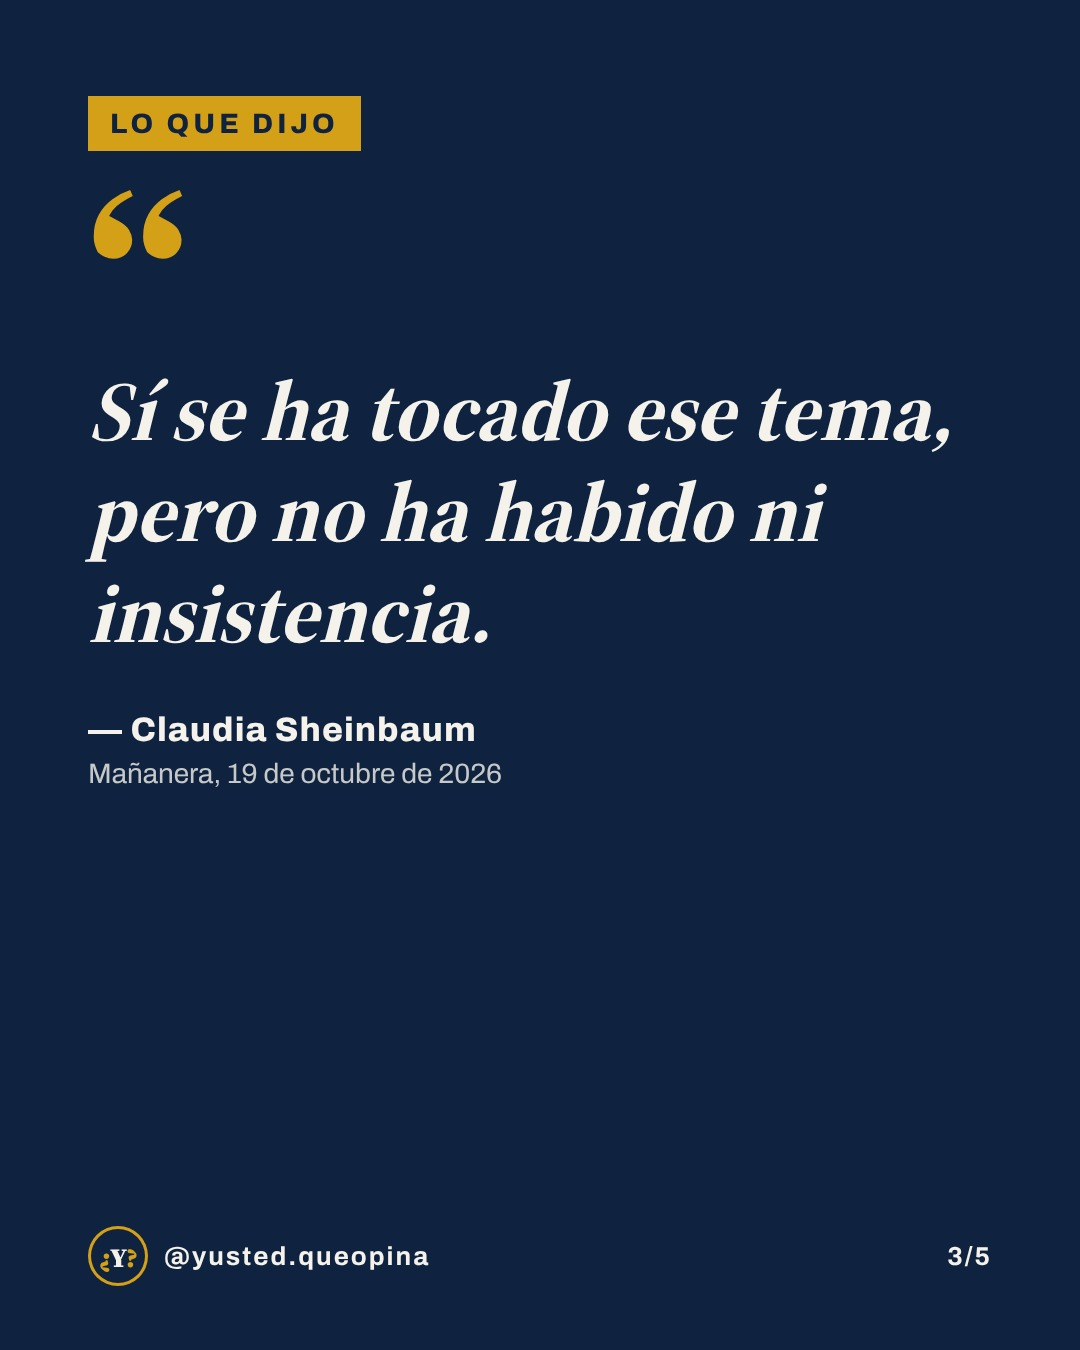
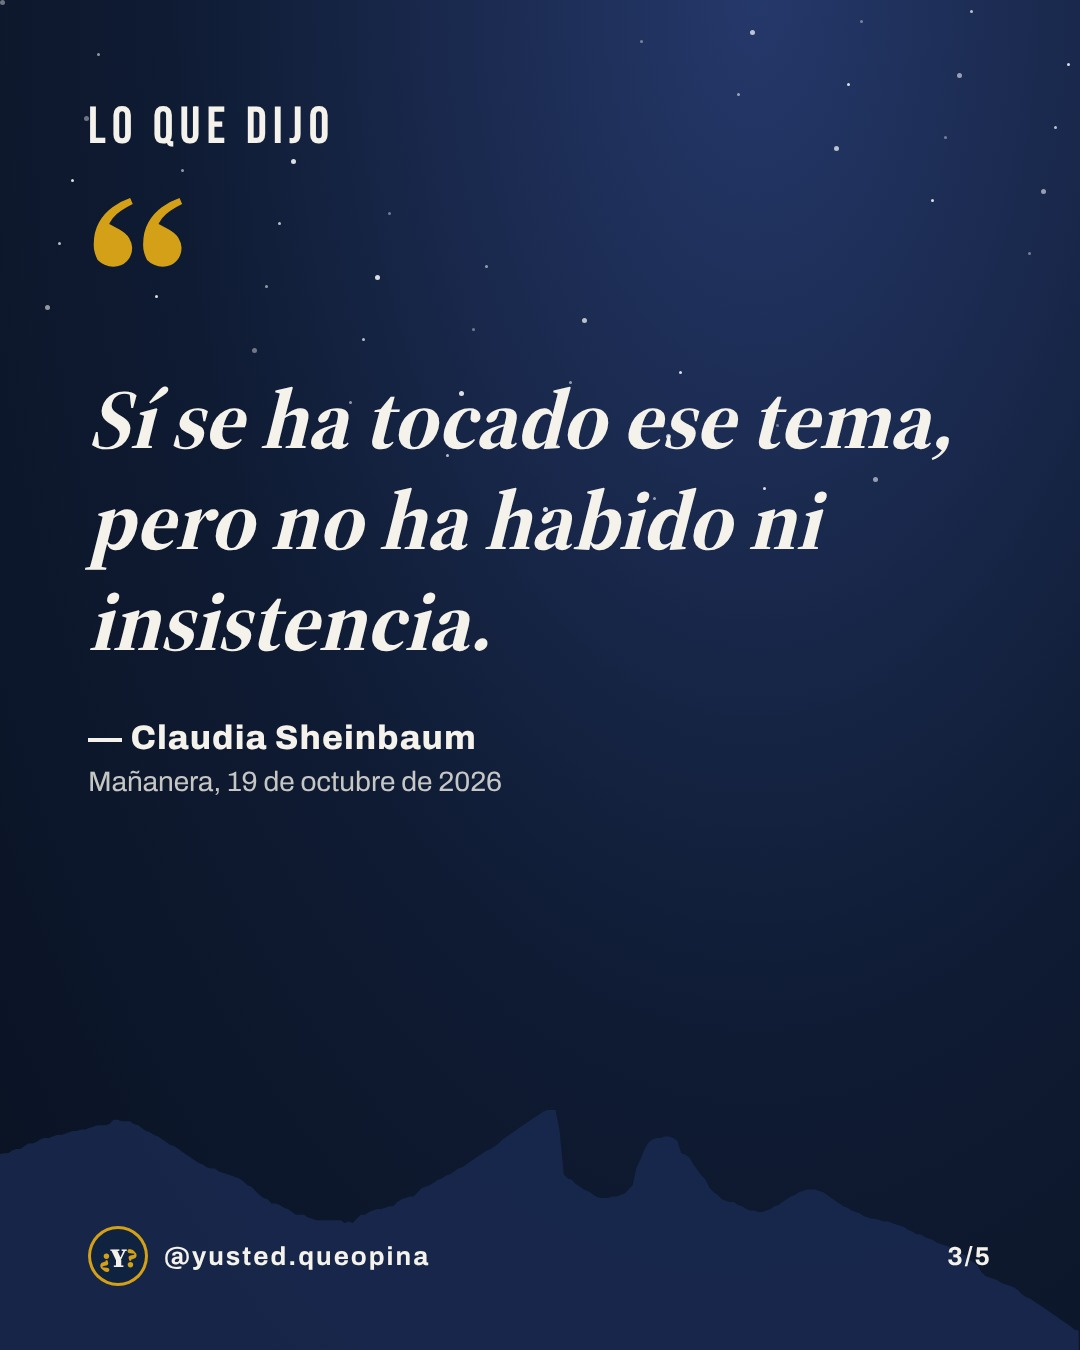
Rehace los 4 posts de la semana 44 con El Picos, estilos de barrio y voz de tú
Claude-Session: https://claude.ai/code/session_01NrWBEzTwVjDknRPgVuDLo1

diff --git a/kit/generar.py b/kit/generar.py
@@ -134,10 +134,10 @@ li:before{{content:'';position:absolute;left:0;top:18px;width:18px;height:18px;b
 .barda .h1,.barda .h2,.barda .hero,.barda .big,.barda .nnum,.barda .rdate{{font-family:'Bungee',sans-serif;font-weight:400;letter-spacing:0;color:{NAVY};text-shadow:6px 6px 0 {GOLD}}}
 .barda .h1{{font-size:92px;line-height:1.04}} .barda .h2{{font-size:62px;line-height:1.1}} .barda .hero{{font-size:250px;line-height:1}} .barda .big{{font-size:200px}}
 .barda .h1 .g,.barda .h2 .g,.barda .hero .g{{color:{TEAL}}}
-.barda .g{{color:{NAVY};background:linear-gradient(transparent 50%,{GOLD} 50%,{GOLD} 92%,transparent 92%);-webkit-box-decoration-break:clone;box-decoration-break:clone}}
+.barda .g{{color:{NAVY};background:linear-gradient(transparent 30%,rgba(212,160,23,.75) 30%,rgba(212,160,23,.75) 96%,transparent 96%);padding:0 4px;-webkit-box-decoration-break:clone;box-decoration-break:clone}}
 .barda .tag{{background:none;color:{TEAL};font-family:'Marker',cursive;font-weight:400;font-size:46px;letter-spacing:0;padding:0}}
 .barda li:before{{background:{TEAL}}} .barda .swipe{{font-family:'Marker',cursive;font-weight:400;letter-spacing:0;color:{NAVY}}}
-.atardecer .swipe,.noche .swipe{{font-family:'Bebas',sans-serif;font-weight:400;font-size:44px;letter-spacing:4px}}
+.atardecer .swipe,.noche .swipe{{text-shadow:0 2px 8px #000;font-family:'Bebas',sans-serif;font-weight:400;font-size:44px;letter-spacing:4px}}
 .atardecer .rtitle,.noche .rtitle{{font-family:'Bebas',sans-serif;font-weight:400;font-size:64px}} .barda .rtitle{{color:{TEAL};font-family:'Marker',cursive;font-weight:400;font-size:56px;letter-spacing:0}}
 .atardecer .rnum,.noche .rnum{{font-family:'Bebas',sans-serif;font-weight:400}} .barda .rnum{{font-family:'Bungee',sans-serif;color:{TEAL}}}
 .atardecer .rtxt,.noche .rtxt,.barda .rtxt{{font-family:'Arch',sans-serif;font-weight:700;font-size:44px}}

diff --git a/GUIA.md b/GUIA.md
@@ -68,7 +68,7 @@ Todos los posts nuevos llevan `"estilo"` en su JSON. El ambiente es de colonia r
 - `noche`: noche en la colonia con foquitos y ventanas prendidas. Para notas serias o pesadas: seguridad, crisis, conflictos, ANÁLISIS.
 
 Reglas:
-- En la cuadrícula del perfil, no pongas dos posts seguidos con el mismo estilo (cuenta el resumen matutino). Si el tono de dos notas seguidas pide el mismo, cambia el orden de publicación o usa el segundo estilo más cercano.
+- En la cuadrícula del perfil, no pongas dos posts seguidos con el mismo estilo (cuenta el resumen matutino). El resumen de cada día debe ser distinto al post anterior **y** al post de las 7:30 pm de ese mismo día. Si el tono de dos notas seguidas pide el mismo, cambia el orden de publicación o usa el segundo estilo más cercano.
 - Si hay `estilo`, manda sobre los colores de sección. `"seccion"` se sigue poniendo (sirve de etiqueta y de respaldo), pero ya no define el color.
 - En `barda` los títulos van en mayúsculas gruesas: mantén la portada en 4 a 8 palabras para que quepa en el rótulo.
 
